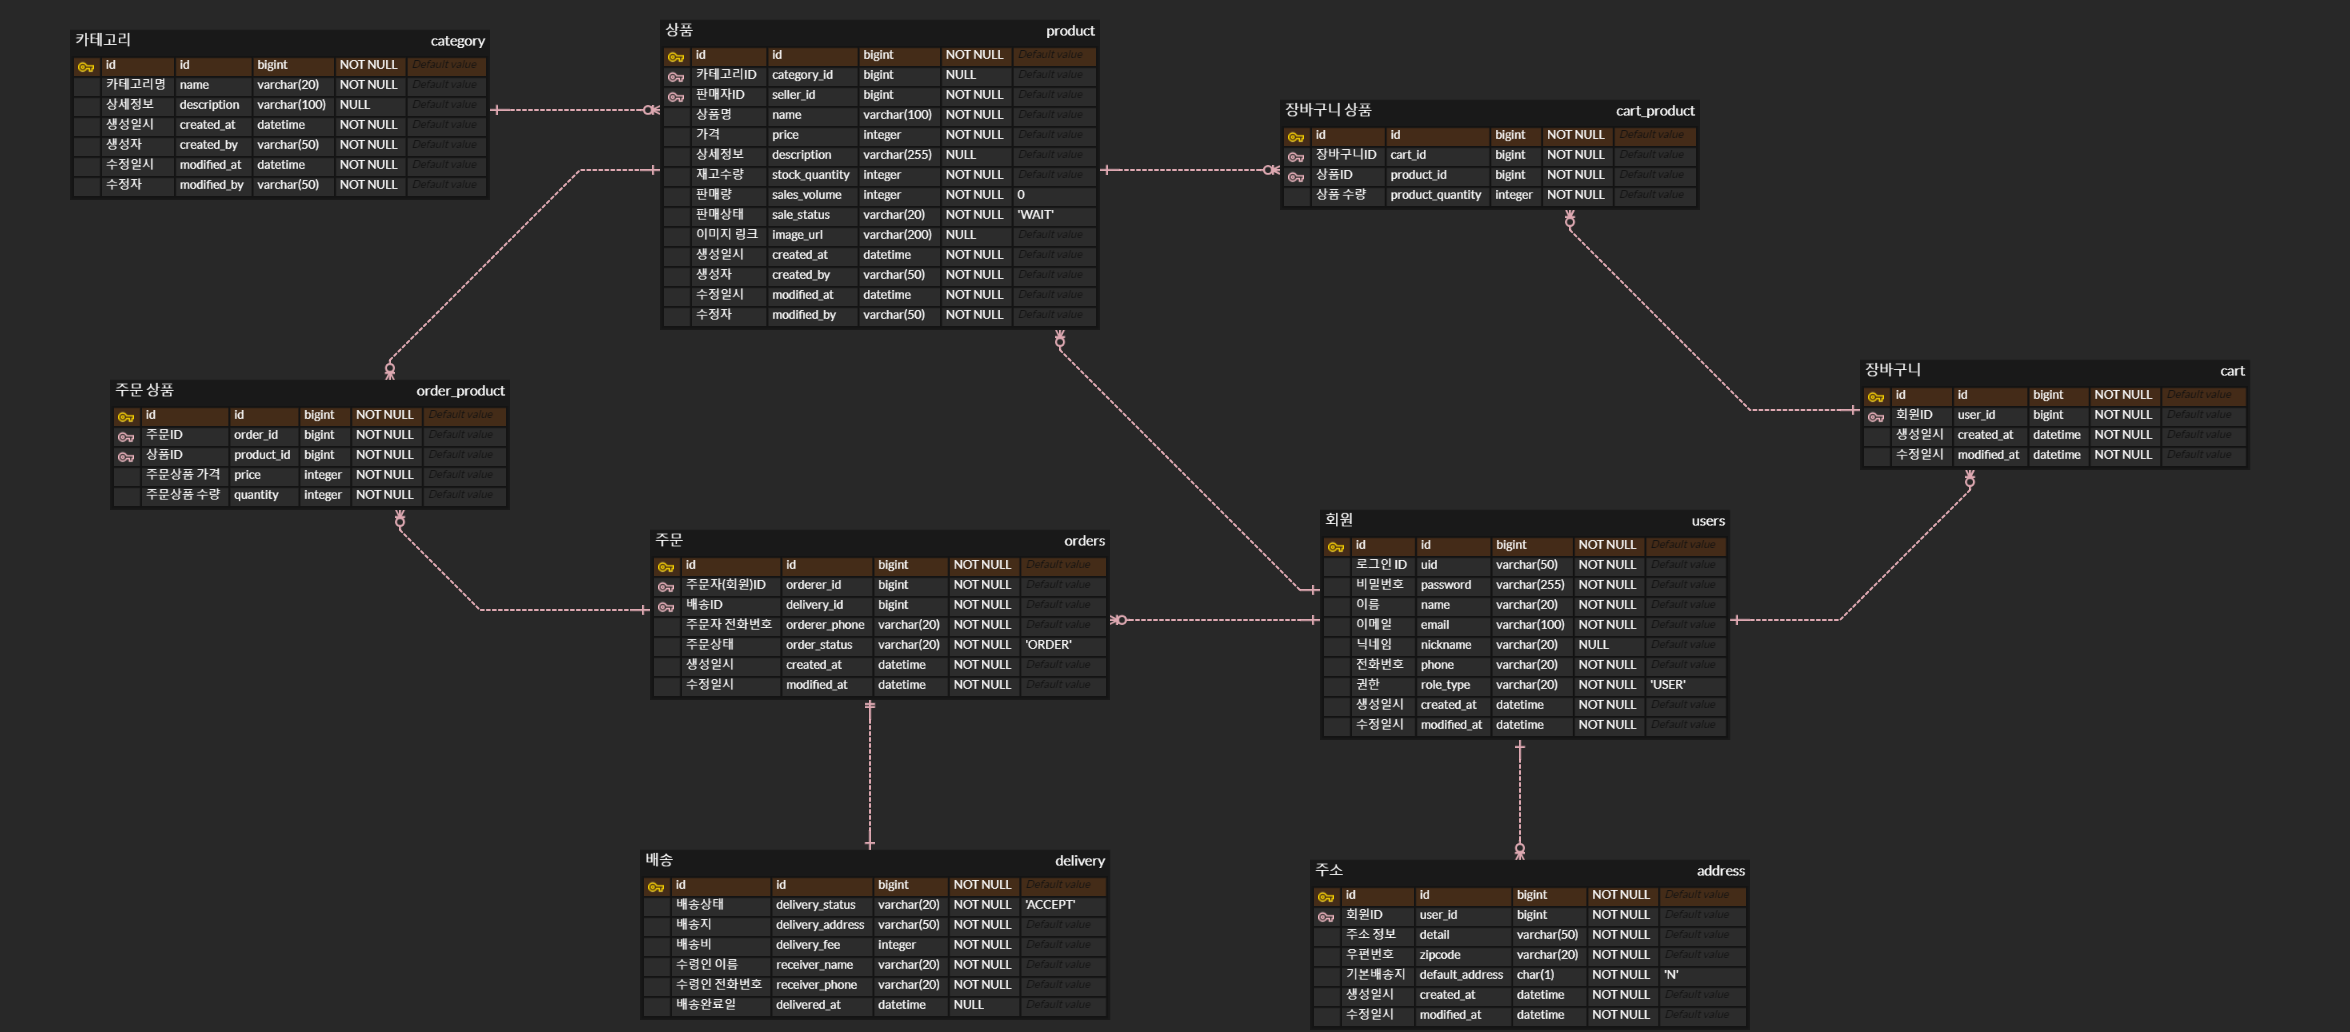
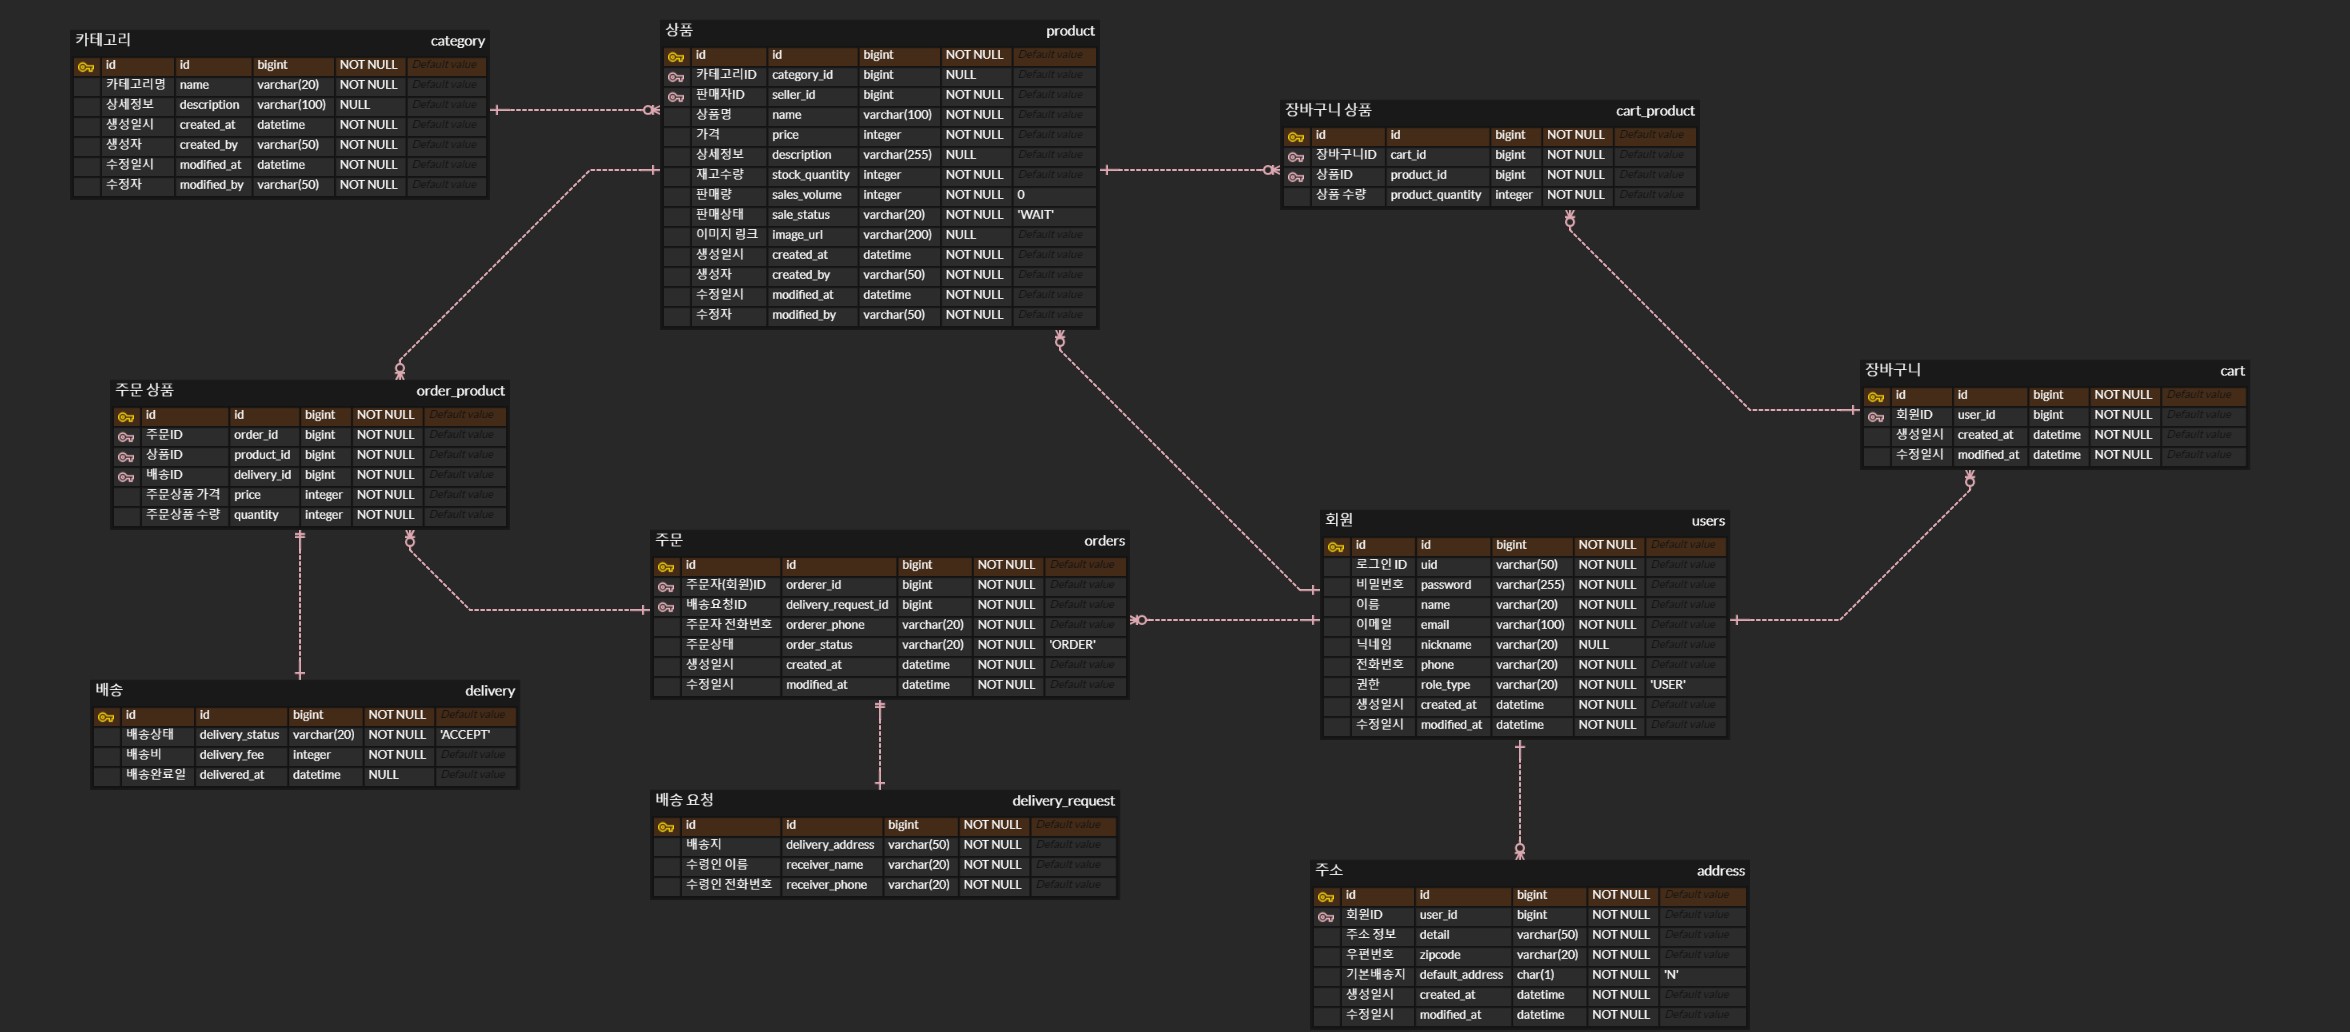
#62 - 도메인 수정
* `OrderProduct` 1:1 `Delivery`
* `Delivery`: 배송 상태, 배송비, 배송 완료일

* `Order` 1:1 `DeliverRequest`
* `Order`: `OrderProduct` 리스트를 가지고, 연관관계 메서드 추가
* `DeliverRequest`: 배송지 주소, 수령인 이름, 수령인 번호

* ERD에도 위 변경 사항 반영

diff --git a/src/main/java/com/been/onlinestore/domain/Order.java b/src/main/java/com/been/onlinestore/domain/Order.java
@@ -5,6 +5,7 @@ import lombok.Getter;
 import lombok.ToString;
 import org.hibernate.annotations.ColumnDefault;
 
+import javax.persistence.CascadeType;
 import javax.persistence.Column;
 import javax.persistence.Entity;
 import javax.persistence.EnumType;
@@ -14,8 +15,11 @@ import javax.persistence.GeneratedValue;
 import javax.persistence.GenerationType;
 import javax.persistence.Id;
 import javax.persistence.ManyToOne;
+import javax.persistence.OneToMany;
 import javax.persistence.OneToOne;
 import javax.persistence.Table;
+import java.util.ArrayList;
+import java.util.List;
 import java.util.Objects;
 
 @Getter
@@ -34,8 +38,12 @@ public class Order extends BaseTimeEntity {
     private User orderer;
 
     @ToString.Exclude
-    @OneToOne(fetch = FetchType.LAZY)
-    private Delivery delivery;
+    @OneToOne(fetch = FetchType.LAZY, cascade = CascadeType.PERSIST)
+    private DeliveryRequest deliveryRequest;
+
+    @ToString.Exclude
+    @OneToMany(mappedBy = "order", cascade = CascadeType.PERSIST)
+    private List<OrderProduct> orderProducts = new ArrayList<>();
 
 
     @Column(nullable = false, length = 20)
@@ -48,15 +56,20 @@ public class Order extends BaseTimeEntity {
 
     protected Order() {}
 
-    private Order(User orderer, Delivery delivery, String ordererPhone, OrderStatus orderStatus) {
+    private Order(User orderer, DeliveryRequest deliveryRequest, String ordererPhone, OrderStatus orderStatus) {
         this.orderer = orderer;
-        this.delivery = delivery;
+        this.deliveryRequest = deliveryRequest;
         this.ordererPhone = ordererPhone;
         this.orderStatus = orderStatus;
     }
 
-    public static Order of(User user, Delivery delivery, String ordererPhone, OrderStatus orderStatus) {
-        return new Order(user, delivery, ordererPhone, orderStatus);
+    public static Order of(User user, DeliveryRequest deliveryRequest, String ordererPhone, OrderStatus orderStatus) {
+        return new Order(user, deliveryRequest, ordererPhone, orderStatus);
+    }
+
+    public void addOrderProduct(OrderProduct orderProduct) {
+        this.orderProducts.add(orderProduct);
+        orderProduct.setOrder(this);
     }
 
     @Override

diff --git a/src/main/java/com/been/onlinestore/domain/OrderProduct.java b/src/main/java/com/been/onlinestore/domain/OrderProduct.java
@@ -1,8 +1,10 @@
 package com.been.onlinestore.domain;
 
 import lombok.Getter;
+import lombok.Setter;
 import lombok.ToString;
 
+import javax.persistence.CascadeType;
 import javax.persistence.Column;
 import javax.persistence.Entity;
 import javax.persistence.FetchType;
@@ -10,6 +12,7 @@ import javax.persistence.GeneratedValue;
 import javax.persistence.GenerationType;
 import javax.persistence.Id;
 import javax.persistence.ManyToOne;
+import javax.persistence.OneToOne;
 import java.util.Objects;
 
 @Getter
@@ -23,12 +26,17 @@ public class OrderProduct {
 
 
     @ToString.Exclude
+    @Setter
     @ManyToOne(fetch = FetchType.LAZY)
     private Order order;
 
     @ToString.Exclude
     @ManyToOne(fetch = FetchType.LAZY)
     private Product product;
+
+    @ToString.Exclude
+    @OneToOne(fetch = FetchType.LAZY, cascade = CascadeType.PERSIST)
+    private Delivery delivery;
 
 
     @Column(nullable = false)
@@ -39,15 +47,20 @@ public class OrderProduct {
 
     protected OrderProduct() {}
 
-    private OrderProduct(Order order, Product product, int price, int quantity) {
+    private OrderProduct(Order order, Product product, Delivery delivery, int price, int quantity) {
         this.order = order;
         this.product = product;
+        this.delivery = delivery;
         this.price = price;
         this.quantity = quantity;
     }
 
-    public static OrderProduct of(Order order, Product product, int price, int quantity) {
-        return new OrderProduct(order, product, price, quantity);
+    public static OrderProduct of(Product product, Delivery delivery, int quantity) {
+        return OrderProduct.of(null, product, delivery, quantity);
+    }
+
+    public static OrderProduct of(Order order, Product product, Delivery delivery, int quantity) {
+        return new OrderProduct(order, product, delivery, product.getPrice(), quantity);
     }
 
     @Override

diff --git a/src/main/java/com/been/onlinestore/domain/Delivery.java b/src/main/java/com/been/onlinestore/domain/Delivery.java
@@ -31,34 +31,22 @@ public class Delivery {
     @Column(nullable = false, length = 20)
     private DeliveryStatus deliveryStatus;
 
-    @Column(nullable = false, length = 50)
-    private String deliveryAddress;
-
     @Column(nullable = false)
     private int deliveryFee;
-
-    @Column(nullable = false, length = 20)
-    private String receiverName;
-
-    @Column(nullable = false, length = 20)
-    private String receiverPhone;
 
     @DateTimeFormat(iso = DateTimeFormat.ISO.DATE_TIME)
     private LocalDateTime deliveredAt;
 
     protected Delivery() {}
 
-    private Delivery(DeliveryStatus deliveryStatus, String deliveryAddress, int deliveryFee, String receiverName, String receiverPhone, LocalDateTime deliveredAt) {
+    private Delivery(DeliveryStatus deliveryStatus, int deliveryFee, LocalDateTime deliveredAt) {
         this.deliveryStatus = deliveryStatus;
-        this.deliveryAddress = deliveryAddress;
         this.deliveryFee = deliveryFee;
-        this.receiverName = receiverName;
-        this.receiverPhone = receiverPhone;
         this.deliveredAt = deliveredAt;
     }
 
-    public static Delivery of(DeliveryStatus deliveryStatus, String deliveryAddress, int deliveryFee, String receiverName, String receiverPhone, LocalDateTime deliveredAt) {
-        return new Delivery(deliveryStatus, deliveryAddress, deliveryFee, receiverName, receiverPhone, deliveredAt);
+    public static Delivery of(DeliveryStatus deliveryStatus, int deliveryFee, LocalDateTime deliveredAt) {
+        return new Delivery(deliveryStatus, deliveryFee, deliveredAt);
     }
 
     @Override

diff --git a/src/main/java/com/been/onlinestore/domain/DeliveryRequest.java b/src/main/java/com/been/onlinestore/domain/DeliveryRequest.java
@@ -1,0 +1,55 @@
+package com.been.onlinestore.domain;
+
+import lombok.Getter;
+import lombok.ToString;
+
+import javax.persistence.Column;
+import javax.persistence.Entity;
+import javax.persistence.GeneratedValue;
+import javax.persistence.GenerationType;
+import javax.persistence.Id;
+import java.util.Objects;
+
+@Getter
+@ToString(callSuper = true)
+@Entity
+public class DeliveryRequest {
+
+    @Id
+    @GeneratedValue(strategy = GenerationType.IDENTITY)
+    private Long id;
+
+
+    @Column(nullable = false, length = 50)
+    private String deliveryAddress;
+
+    @Column(nullable = false, length = 20)
+    private String receiverName;
+
+    @Column(nullable = false, length = 20)
+    private String receiverPhone;
+
+    protected DeliveryRequest() {}
+
+    private DeliveryRequest(String deliveryAddress, String receiverName, String receiverPhone) {
+        this.deliveryAddress = deliveryAddress;
+        this.receiverName = receiverName;
+        this.receiverPhone = receiverPhone;
+    }
+
+    public static DeliveryRequest of(String deliveryAddress, String receiverName, String receiverPhone) {
+        return new DeliveryRequest(deliveryAddress, receiverName, receiverPhone);
+    }
+
+    @Override
+    public boolean equals(Object o) {
+        if (this == o) return true;
+        if (!(o instanceof DeliveryRequest that)) return false;
+        return this.getId() != null && Objects.equals(this.getId(), that.getId());
+    }
+
+    @Override
+    public int hashCode() {
+        return Objects.hash(this.getId());
+    }
+}
